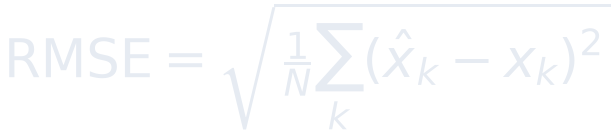
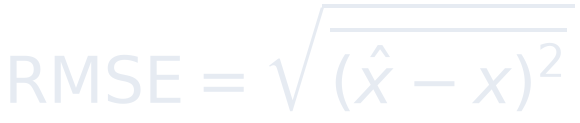
Clarify observation noise panel and enlarge formulas in plasma control

diff --git a/examples/plasma-control/plasma_scene.py b/examples/plasma-control/plasma_scene.py
@@ -53,13 +53,13 @@ FONT_EN = os.path.join(_MPL_TTF, "DejaVuSans.ttf")
 # ---------------- formula PNGs (mathtext, no LaTeX) ----------------
 FORMULAS = {
     "beamline":  r"$x_{k+1}=f(x_k,u_k)+w_k$",
-    "ekf":       r"$K_k=P_k^-H^\top(HP_k^-H^\top+R)^{-1}$",
-    "lstm":      r"$f_t=\sigma(W_f[h_{t-1},x_t]+b_f)$",
-    "fusion":    r"$\hat x_k=\alpha\,\hat x_k^{\rm EKF}+(1-\alpha)\hat x_k^{\rm LSTM}$",
-    "predict":   r"$\hat x_{k+1:k+H}=\mathrm{LSTM}(x_{k-L+1:k})$",
-    "closedloop":r"$u_k=-K(\hat x_k-x^{\rm ref})$",
-    "perf":      r"$\mathrm{RMSE}=\sqrt{\frac{1}{N}\sum_k(\hat x_k-x_k)^2}$",
-    "adaptive":  r"$z_k=Hx_k+v_k,\quad R_k\leftarrow\hat R_k$",
+    "ekf":       r"$K=PH^\top(HPH^\top+R)^{-1}$",
+    "lstm":      r"$f_t=\sigma(W_fh_{t-1}+b_f)$",
+    "fusion":    r"$\hat x=\alpha\hat x_E+(1-\alpha)\hat x_L$",
+    "predict":   r"$\hat x_{k+1:H}=\mathrm{LSTM}(x_{k-L:k})$",
+    "closedloop":r"$u=-K(\hat x-x^{\rm ref})$",
+    "perf":      r"$\mathrm{RMSE}=\sqrt{\overline{(\hat x-x)^2}}$",
+    "adaptive":  r"$z=Hx+v,\quad v\sim N(0,R)$",
 }
 
 
@@ -78,7 +78,7 @@ def _render_formula(tex, path, size):
 def ensure_formulas():
     for key, tex in FORMULAS.items():
         if not os.path.exists(_fname(key)):
-            _render_formula(tex, _fname(key), 19)
+            _render_formula(tex, _fname(key), 23)
 
 
 def formula_img(key):
@@ -485,35 +485,42 @@ def perf_panel(im, d, box, sim, t, gy0):
 
 
 def adaptive_panel(im, d, box, sim, t, gy0):
-    """(ne,Te) state portrait converging + adaptive observation noise R_k."""
+    """One clear story: observation noise z = x + v.  True curve, noisy
+    measurement dots with noise bars, fused estimate, and Chinese labels."""
     x0, y0, x1, y1 = box
     idx = int(t*FPS)
-    # left: state portrait
-    px0, px1 = x0+14, x0+(x1-x0)//2-6
-    py0, py1 = gy0+12, y1-30
-    d.line([(px0, (py0+py1)//2), (px1, (py0+py1)//2)], fill=(34, 38, 44), width=1)
-    d.line([((px0+px1)//2, py0), ((px0+px1)//2, py1)], fill=(34, 38, 44), width=1)
-    s0 = max(0, idx-180)
-    pts = []
-    for i in range(s0, idx+1):
-        xx = px0 + (px1-px0)*((sim.ekf[i]-2.0)/1.2)
-        yy = py1 - (py1-py0)*((sim.Te_true[i]-2.4)/1.4)
-        pts.append((xx, yy))
-    polyline(d, pts, GREEN, 2)
-    if pts:
-        lx, ly = pts[-1]
-        d.ellipse((lx-4, ly-4, lx+4, ly+4), fill=CYAN)
-    en_label(d, (px0+4, py0+2), "state portrait", 10, DIMTEXT)
-    en_label(d, (px0+4, py1-14), "n_e  vs  T_e", 9, DIMTEXT)
-    # right: adaptive R_k
-    rx0, rx1 = x0+(x1-x0)//2+10, x1-14
-    mp = frame_axes(d, rx0, py0, rx1, py1, 0.0, 0.22)
-    L = 240
-    s1 = max(0, idx-L)
-    xs = np.linspace(rx0, rx1, L)
-    polyline(d, [(xs[i], mp(sim.Rest[s1+i])) for i in range(L)], BLUE, 2)
-    en_label(d, (rx0+4, py0+2), "adaptive R_k", 10, DIMTEXT)
-    en_label(d, (x0+12, y1-16), "OBSERVATION NOISE  ·  ONLINE ADAPTATION", 10, DIMTEXT)
+    L = 220
+    s0 = max(0, idx-L)
+    n = idx - s0 + 1
+    xa, xb = x0+14, x1-14
+    ya, yb = gy0+14, y1-56
+    mp = frame_axes(d, xa, ya, xb, yb, 1.8, 3.2)
+    xs = np.linspace(xa, xb, n)
+
+    # noise bars: vertical segment from true value to noisy observation
+    step = 5
+    for i in range(0, n, step):
+        xv = xs[i]
+        yt = mp(sim.ne_true[s0+i])
+        yo = mp(sim.z_ne[s0+i])
+        d.line([(xv, yt), (xv, yo)], fill=(86, 58, 58), width=1)
+        d.ellipse((xv-2, yo-2, xv+2, yo+2), fill=(198, 96, 92))
+
+    # true state (cyan) and fused estimate (gold)
+    polyline(d, [(xs[i], mp(sim.ne_true[s0+i])) for i in range(n)], CYAN, 2)
+    polyline(d, [(xs[i], mp(sim.fused[s0+i])) for i in range(n)], GOLD, 2)
+    # latest observation highlighted
+    if n:
+        yl = mp(sim.z_ne[idx])
+        d.ellipse((xb-5, yl-5, xb+5, yl+5), fill=(236, 120, 116))
+
+    # Chinese labels (who is who)
+    cn_text(im, d, "红点 = 带噪观测  z = x + v", (x0+16, y1-48), 15, (222, 132, 128))
+    cn_text(im, d, "青线 = 真实密度   金线 = 融合估计", (x0+16, y1-26), 15, DIMTEXT)
+    # instantaneous noise magnitude
+    v = sim.z_ne[idx] - sim.ne_true[idx]
+    en_label(d, (x1-16, ya+4), "v = %+.3f   R~%.3f" % (v, sim.at(sim.Rest, idx)),
+             11, DIMTEXT, anchor="rt")
 
 
 CAPTIONS = [
@@ -524,7 +531,7 @@ CAPTIONS = [
     "多步预测：一次前向推出未来 H 步，视界越远不确定性越大。",
     "闭环调节：把估计值送回电源与气流，把状态拉回工艺设定点。",
     "性能对比：融合方案的均方根误差最小，抗扰动能力也最强。",
-    "自适应观测：噪声统计在线更新，束线在扰动中依然稳定。",
+    "观测噪声：传感器读数 z 总在真实密度 x 上下跳动，这个跳动 v 就是噪声；R 描述它有多大。",
 ]
 
 
@@ -556,8 +563,8 @@ def render_frame(sim, idx):
         x0 = MARGIN + col*(pw+GUTTER)
         box = (x0, y0, x0+pw, y0+rh)
         panel_base(d, box)
-        draw_formula(d, im, key, (x0, y0, x0+pw, y0+36))
-        gy0 = y0 + 44
+        draw_formula(d, im, key, (x0, y0, x0+pw, y0+46))
+        gy0 = y0 + 52
         painter(im, d, box, sim, t, gy0)
 
     seg = DURATION/len(CAPTIONS)

diff --git a/examples/plasma-control/README.md b/examples/plasma-control/README.md
@@ -15,7 +15,7 @@
 | 多步预测 | `x̂_{k+1:k+H}=LSTM(x_{k−L+1:k})` | 历史青线 + 未来 H 步扇形不确定区 + 区内金色预测曲线 |
 | 闭环响应 | `u_k=−K(x̂_k−x^ref)` | 设定点 2.55，两处扰动后压回，控制量与真实密度同图 |
 | 性能对比 | `RMSE=√(1/N·Σ(x̂_k−x_k)²)` | EKF / LSTM / 融合三法 RMSE 条形，融合最低 |
-| 自适应观测 | `z_k=Hx_k+v_k, R_k←R̂_k` | 状态相图 + 观测噪声协方差自适应收缩 |
+| 观测噪声 | `z=Hx+v, v∼N(0,R)` | 真值青线 + 带噪观测红点与噪声棒 + 融合估计金线，中文标注 v 与 R 的含义 |
 
 **数值预检**（`precheck.py`）：EKF 协方差收缩 0.0927→0.0800；融合 RMSE 0.0887 优于开环 0.2405；闭环稳定在设定点附近；融合权重 α 随时间递减（LSTM 逐渐接管）。
 
